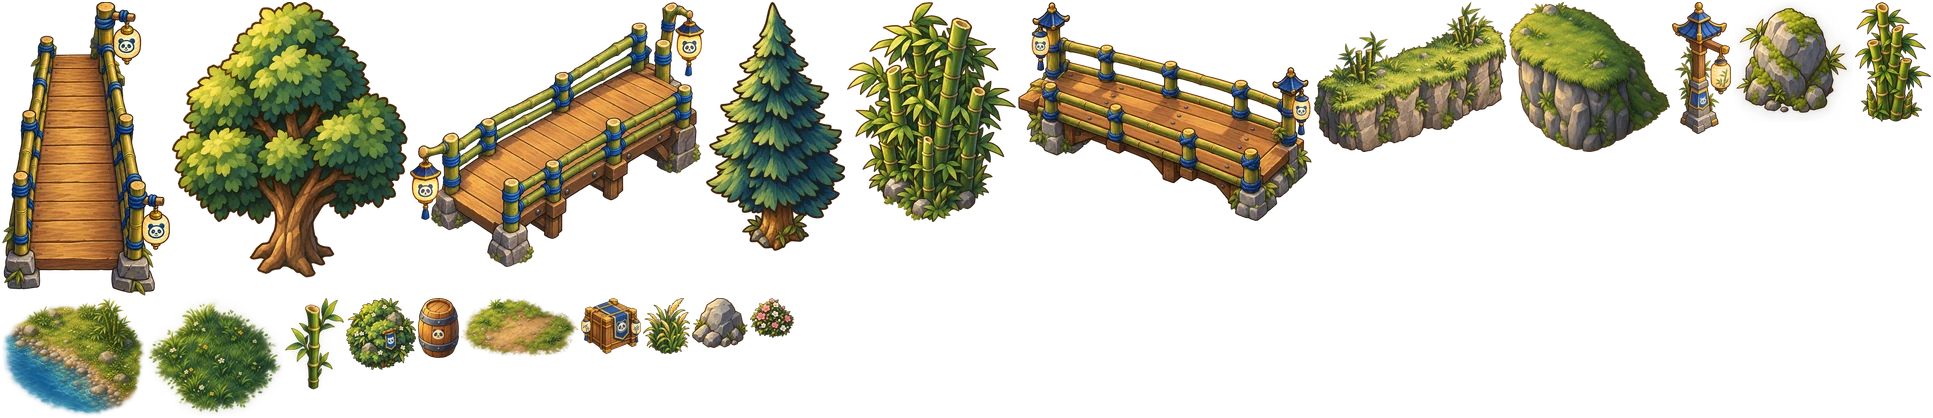
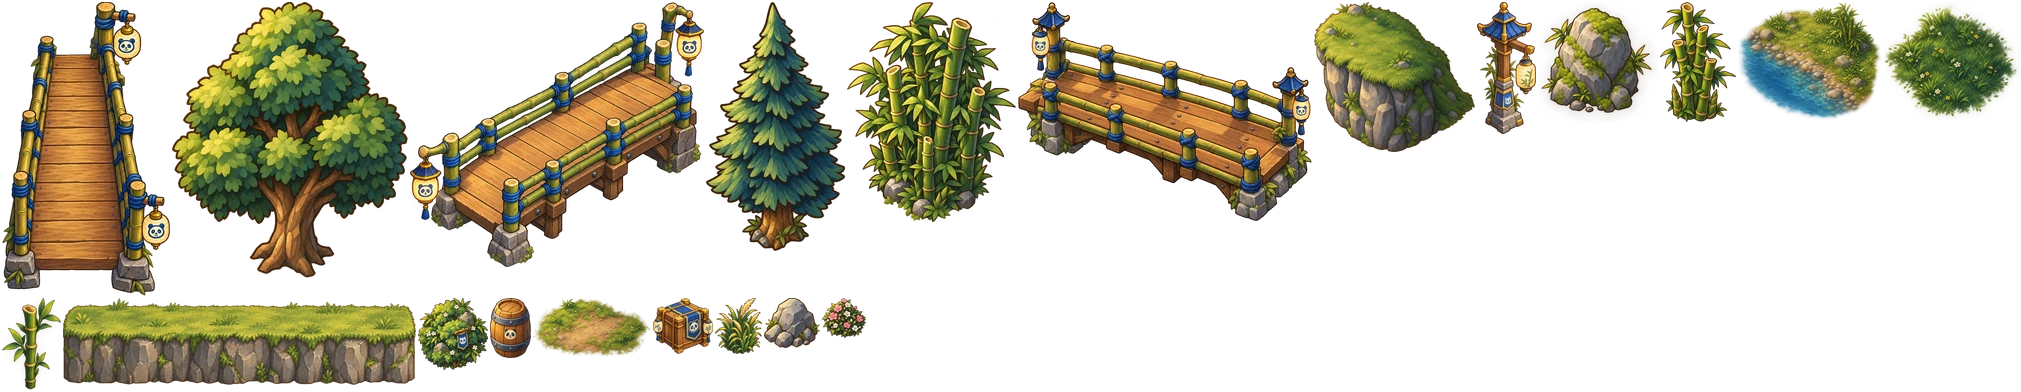
art: straight cliff section (batch c3fc00a2a7, 39 CU)
cliff_end was rejected once and the 50 CU budget ran out, so the old end stays.

Claude-Session: https://claude.ai/code/session_015Ev3RCo9wsVZkXfbKuMWsf

diff --git a/art/review/AUDIT.md b/art/review/AUDIT.md
@@ -1,7 +1,7 @@
 # Panda art audit
 
-Generated by `pnpm art audit`. 110/110 logical assets complete; 186 generation parts in total.
-**Complete.**
+Generated by `pnpm art audit`. 109/110 logical assets complete; 186 generation parts in total.
+**Incomplete**: see the problems column.
 
 | # | id | parts | masters | runtime | state | problems |
 |---|---|---|---|---|---|---|
@@ -111,7 +111,7 @@ Generated by `pnpm art audit`. 110/110 logical assets complete; 186 generation p
 | 104 | tile_stone | 1 | 1 | 1 | validated |  |
 | 105 | map_background | 1 | 1 | 1 | validated |  |
 | 106 | cliff_section | 1 | 1 | 1 | validated |  |
-| 107 | cliff_end | 1 | 1 | 1 | validated |  |
+| 107 | cliff_end | 1 | 1 | 1 | failed | cliff_end: failed; cliff_end: Corners are not transparent (painted background or checkerboard). |
 | 108 | grass_patch | 1 | 1 | 1 | validated |  |
 | 109 | tile_water | 1 | 1 | 1 | validated |  |
 | 110 | bridge | 3 | 3 | 3 | 3 validated |  |
